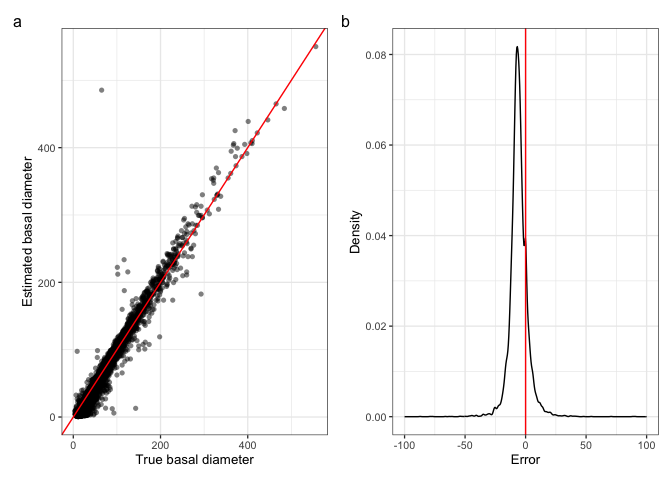
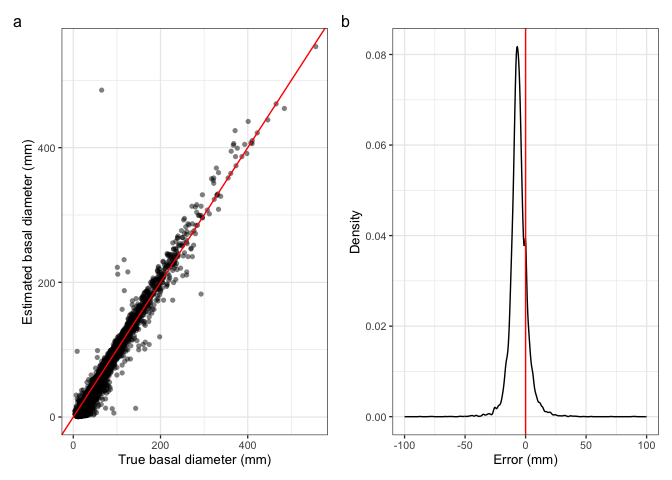
add units

Changed region(s): [[0.0312, 0.2812, 0.0625, 0.6875], [0.1562, 0.9375, 0.4062, 0.9688], [0.7188, 0.9375, 0.8438, 0.9688]]

diff --git a/code/notebooks/2025-07-28_estimate-basal-diameter.md b/code/notebooks/2025-07-28_estimate-basal-diameter.md
@@ -128,8 +128,8 @@ data %>%
   ggplot(aes(y = dbase_est, x = dbase_mean)) +
   geom_point(alpha = 0.5, shape = 16) +
   geom_abline(intercept = 0, colour = "red") +
-  labs(x = "True basal diameter", 
-       y = "Estimated basal diameter") +
+  labs(x = "True basal diameter (mm)", 
+       y = "Estimated basal diameter (mm)") +
   
   data %>% 
   mutate(dbase_est = get_basal(dbh_mean, 
@@ -140,7 +140,7 @@ data %>%
   geom_density() +
   geom_vline(xintercept = 0, colour = "red") +
   xlim(-100, 100) +
-  labs(x = "Error", 
+  labs(x = "Error (mm)", 
        y = "Density") +
   
   plot_annotation(tag_levels = "a")
